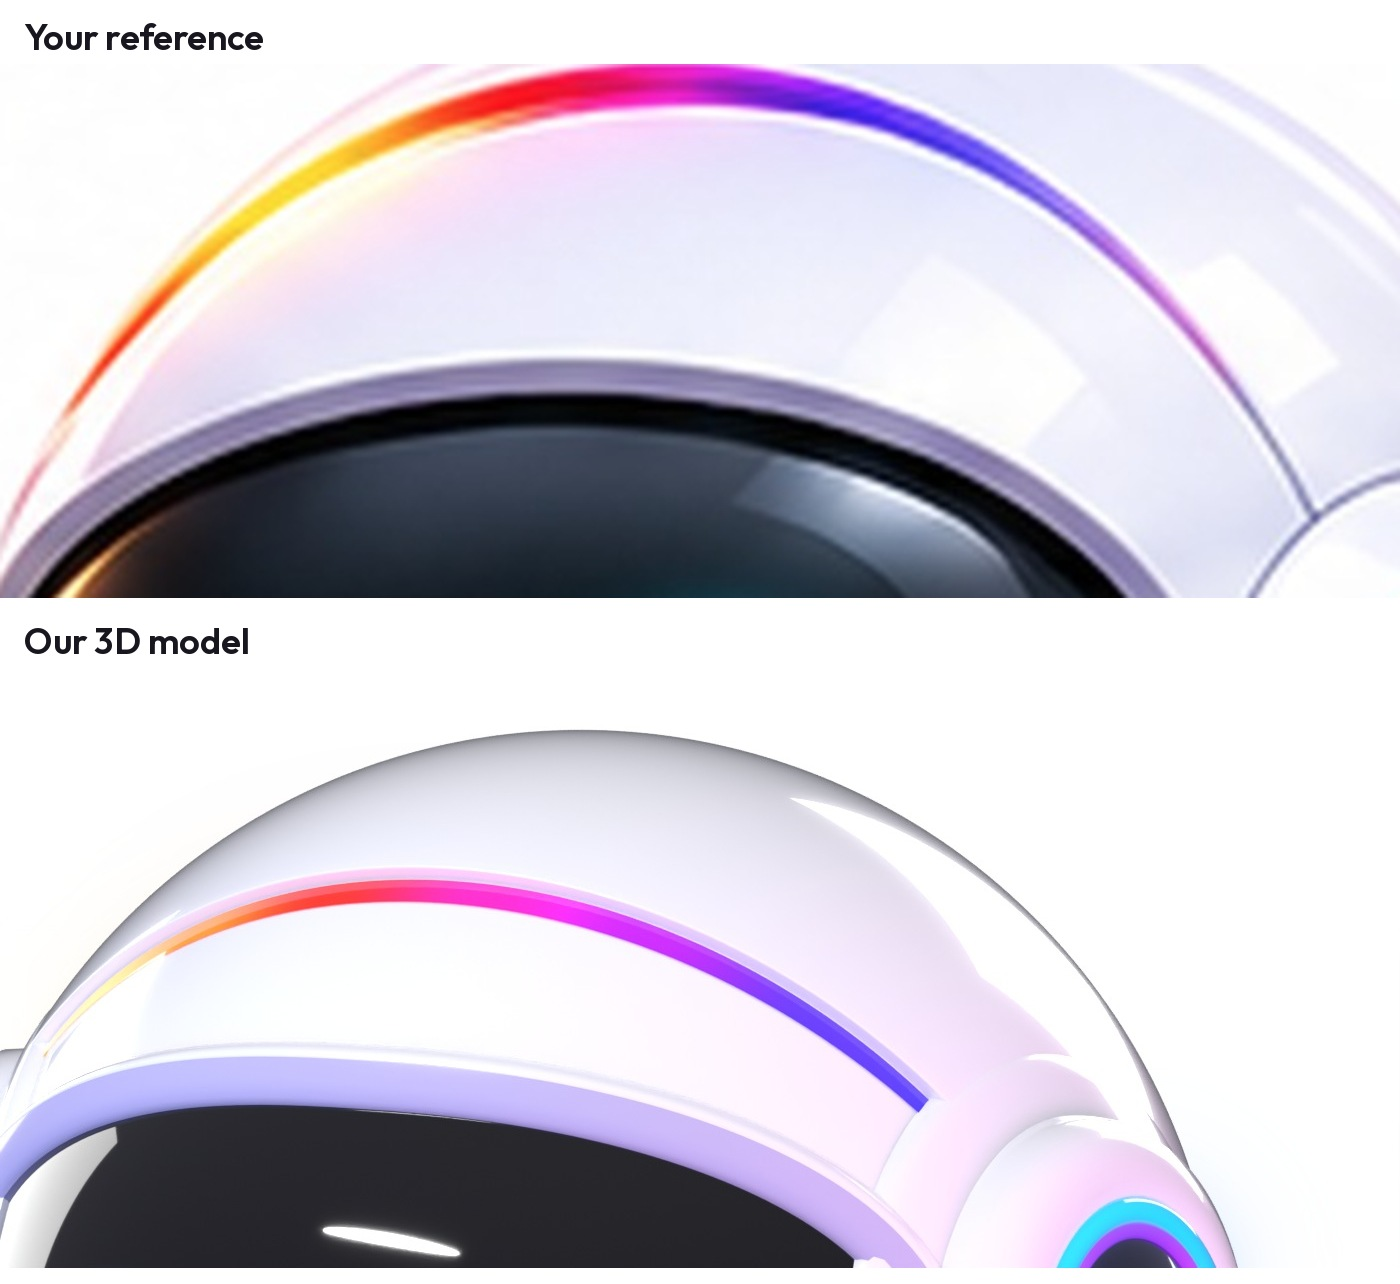
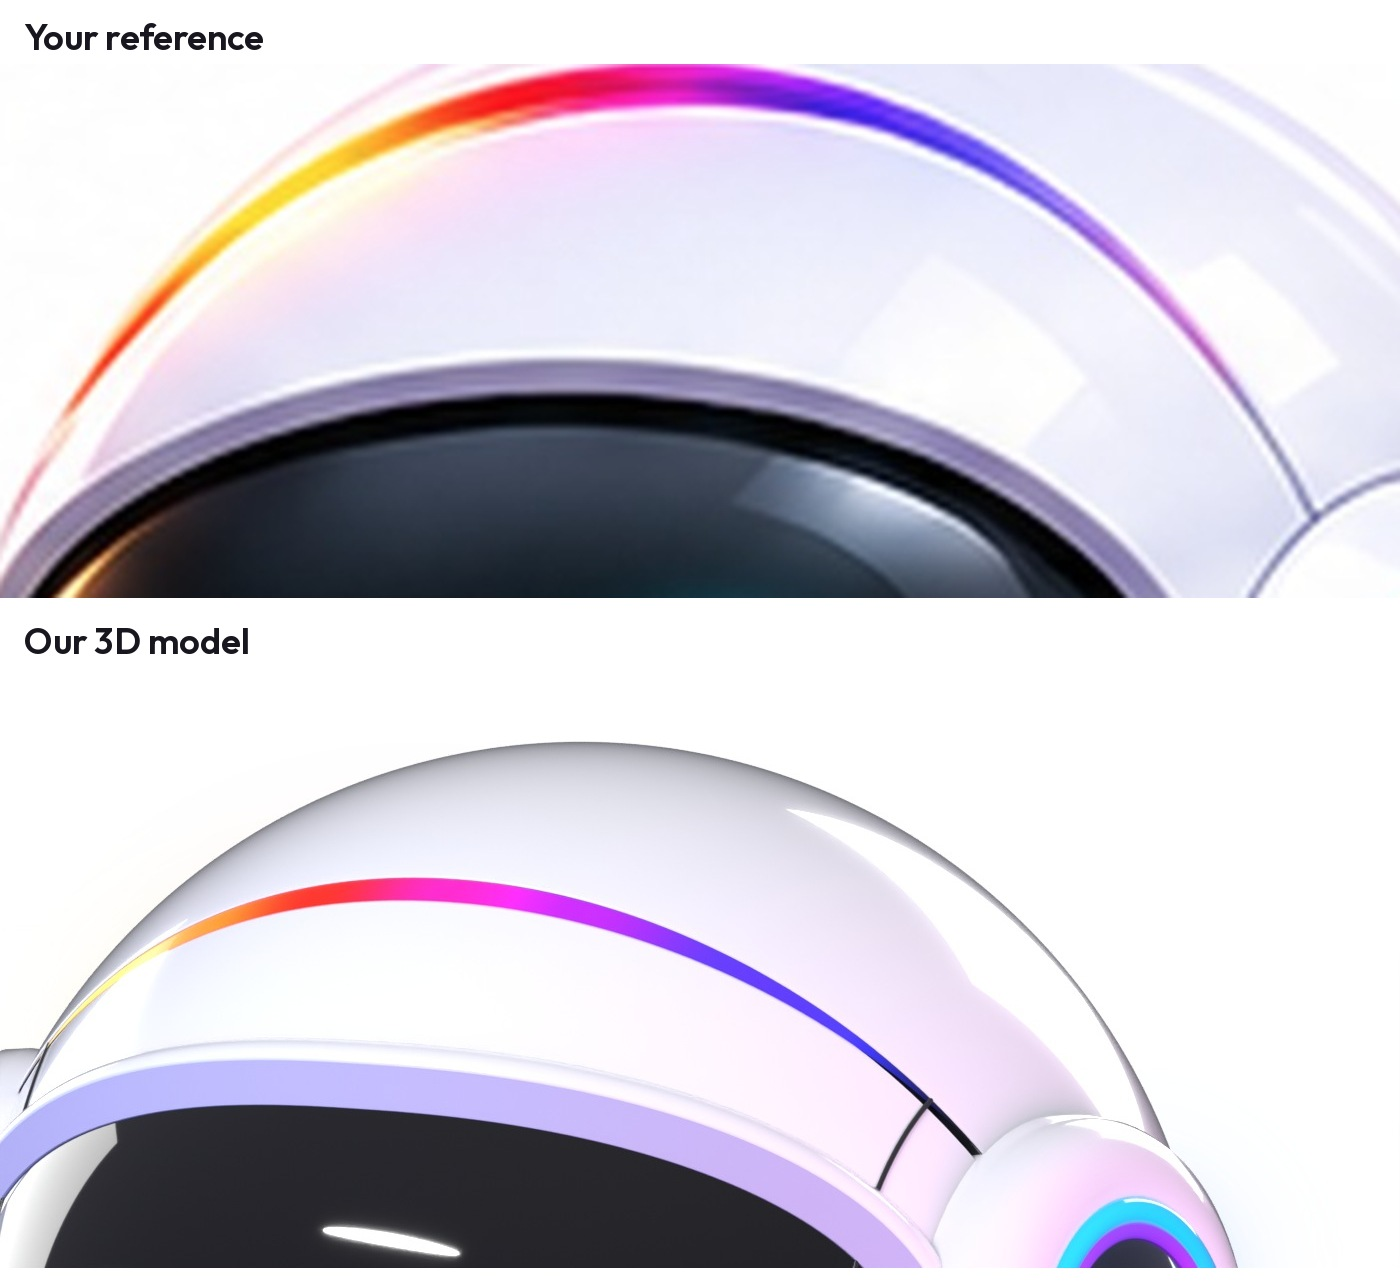
Character version 3: crisp dark seams, flush ear plates, light that ends in the seam, reference-style hands
Hands: a puffy palm, three fat rounded fingers, a fat thumb, a full-width
wrist, a wider black band, a cyan ring and a big puffy cuff, palms up.

Claude-Session: https://claude.ai/code/session_011BdSE2fEeiEv9ZgoYmWAPn

diff --git a/design/hero/character/v3/build.py b/design/hero/character/v3/build.py
@@ -132,13 +132,13 @@ def tube(name, pts, radius, mat, n=16, color=None, caps=True, parent=None):
         for k in range(n): p, q = i * n + k, i * n + (k + 1) % n; faces.append((p, q, q + n, p + n))
     return mesh_object(name, verts, faces, mat, colors=cols or None, parent=parent)
 
-def superellipsoid(name, a, b, c, e1, e2, mat, nu=56, nv=36, center=(0, 0, 0), parent=None):
+def superellipsoid(name, a, b, c, e1, e2, mat, nu=56, nv=36, center=(0, 0, 0), parent=None, taper=0.0):
     def C(w, m): return math.copysign(abs(math.cos(w)) ** m, math.cos(w))
     def S(w, m): return math.copysign(abs(math.sin(w)) ** m, math.sin(w))
     c0 = Vector(center); verts, faces = [], []
     for i in range(1, nv):
         v = -math.pi / 2 + math.pi * i / nv
-        for j in range(nu): u = -math.pi + 2 * math.pi * j / nu; verts.append(c0 + Vector((a * C(v, e1) * C(u, e2), b * C(v, e1) * S(u, e2), c * S(v, e1))))
+        for j in range(nu): u = -math.pi + 2 * math.pi * j / nu; z_ = c * S(v, e1); verts.append(c0 + Vector((a * (1 + taper * z_ / c) * C(v, e1) * C(u, e2), b * C(v, e1) * S(u, e2), z_)))
     bot = len(verts); verts.append(c0 + Vector((0, 0, -c))); top = len(verts); verts.append(c0 + Vector((0, 0, c)))
     for i in range(nv - 2):
         for j in range(nu): p = i * nu + j; q = i * nu + (j + 1) % nu; faces.append((p, q, q + nu, p + nu))
@@ -187,20 +187,20 @@ def bezel_sweep(name, prof, mat, MB=240):
     for j in range(MB):
         for i in range(L - 1): p = j * L + i; q = ((j + 1) % MB) * L + i; faces.append((p, q, q + 1, p + 1))
     return mesh_object(name, verts, faces, mat, parent=root)
-bezel_sweep('BezelChamfer', [(-0.016, -0.03), (-0.014, 0.004), (-0.008, 0.018), (0.014, 0.03), (0.048, 0.038)], M_rim)          # the lavender band round the glass
-bezel_sweep('Bezel', [(0.048, 0.038), (0.05, 0.04), (0.064, 0.035), (0.08, 0.022), (0.09, 0.006), (0.094, -0.03)], M_body)     # the white face, a crisp edge against the band
+bezel_sweep('BezelWall', [(-0.016, -0.03), (-0.0145, 0.004)], M_rim)
+bezel_sweep('BezelChamfer', [(-0.0145, 0.004), (0.044, 0.034)], M_rim)          # the lavender band round the glass
+bezel_sweep('Bezel', [(0.044, 0.034), (0.0455, 0.0365), (0.049, 0.0375), (0.066, 0.034), (0.084, 0.021), (0.096, 0.005), (0.1, -0.03)], M_body)     # the white face, a crisp edge against the band
 
 # ---------------------------------------------------------------- ears: a raised plate, a cup, a black centre and a light ring
 EAR_LON, EAR_LAT = 76, 6
 for s in (1, -1):
     ax = on_sphere(s * EAR_LON, EAR_LAT); nm = 'L' if s > 0 else 'R'
-    plate = [(0.0, 1.03)] + [(rr, math.sqrt(1 - rr * rr) + 0.03) for rr in (0.2, 0.3, 0.4, 0.46, 0.485)] + [(0.497, math.sqrt(1 - 0.497 ** 2) + 0.026), (0.503, math.sqrt(1 - 0.503 ** 2) + 0.012), (0.505, math.sqrt(1 - 0.505 ** 2) - 0.02)]
-    lathe('EarPlate' + nm, plate, M_body, axis=ax)
+    torus('EarSeam' + nm, 0.5, 0.0045, M_band, axis=ax, center=ax * math.sqrt(1 - 0.5 ** 2), n=200, m=8)   # the ear plate is flush, outlined by a thin dark seam
     lathe('EarCup' + nm, [(0.4, 0.88), (0.4, 0.955), (0.393, 0.995), (0.375, 1.025), (0.345, 1.045), (0.305, 1.056), (0.275, 1.054), (0.258, 1.047), (0.25, 1.038)], M_body, axis=ax)   # a low housing, close on the body
     lathe('EarCentre' + nm, [(0.238, 1.036), (0.2, 1.062), (0.1, 1.086), (0.0, 1.093)], M_black, axis=ax)
     torus('EarRingIn' + nm, 0.226, 0.015, M_earRing, axis=ax, center=ax * 1.05, n=160, m=10, color=lambda t, b, s=s: ramp(EARIN, (t + (0.25 if s > 0 else 0.75)) % 1.0), parent=root)
     torus('EarRing' + nm, 0.255, 0.022, M_earRing, axis=ax, center=ax * 1.048, n=160, m=12, color=lambda t, b, s=s: ramp(EAR, (t + (0.25 if s > 0 else 0.75)) % 1.0))
-    for o in ('EarPlate', 'EarCup', 'EarCentre', 'EarRing'): bpy.data.objects[o + nm].parent = root
+    for o in ('EarSeam', 'EarCup', 'EarCentre', 'EarRing'): bpy.data.objects[o + nm].parent = root
 
 # ---------------------------------------------------------------- the rainbow stripe over the head, ear to ear, and the glowing seam low on the front
 E1 = on_sphere(EAR_LON, EAR_LAT); TOP = on_sphere(0, 58)
@@ -224,7 +224,7 @@ mod = body.modifiers.new('cut', 'BOOLEAN'); mod.operation = 'DIFFERENCE'; mod.ob
 bpy.context.view_layer.objects.active = body; bpy.ops.object.modifier_apply(modifier=mod.name); bpy.data.objects.remove(cutter)
 # the cut that the top light sits in: a thin slot all round where the shell meets the face piece, and the shell behind it
 # stands a little proud, so there is a clear step edge with the light under it (fitted panels, as on the reference)
-hv, hf = [], []; HN = 240; SLOT = 0.0045   # a thin, crisp seam line all round
+hv, hf = [], []; HN = 240; SLOT = 0.008   # a thin, crisp seam line all round
 for i in range(HN):
     a = 2 * math.pi * i / HN; dirv = math.cos(a) * Vector((1, 0, 0)) + math.sin(a) * up_
     for rad, tt in ((rr_ - 0.05, -SLOT), (rr_ - 0.05, SLOT), (rr_ + 0.09, SLOT), (rr_ + 0.09, -SLOT)): hv.append(C_ + dirv * rad + n_ * tt)
@@ -234,24 +234,25 @@ headcut = mesh_object('HeadCut', hv, hf, M_dark)
 mod = body.modifiers.new('headcut', 'BOOLEAN'); mod.operation = 'DIFFERENCE'; mod.object = headcut; mod.solver = 'EXACT'; mod.material_mode = 'TRANSFER'
 bpy.context.view_layer.objects.active = body; bpy.ops.object.modifier_apply(modifier=mod.name); bpy.data.objects.remove(headcut)
 s_top = 1 if n_.z > d_ else -1
-A_ = n_ * s_top; h_e = s_top * d_ + SLOT; RS = 1.024; th_e = math.acos(h_e / RS); rho_e = RS * math.sin(th_e)
+A_ = n_ * s_top; h_e = s_top * d_ + SLOT; RS = 1.005; th_e = math.acos(h_e / RS); rho_e = RS * math.sin(th_e)
 # the shell behind the cut, with a tiny rounded bevel on its edge so the edge catches a thin, sharp highlight, then a straight wall
-RB = 0.0035; thc = th_e - RB / RS; Rc = RS - RB
+RB = 0.0028; thc = th_e - RB / RS; Rc = RS - RB
 def er_(th): return Vector((math.sin(th), math.cos(th)))
 def et_(th): return Vector((math.cos(th), -math.sin(th)))
 prof = [(RS * math.sin(thc * k / 90), RS * math.cos(thc * k / 90)) for k in range(91)]
 for k in range(1, 9):
     ph = math.pi / 2 * k / 8; q = er_(thc) * Rc + RB * (math.cos(ph) * er_(thc) + math.sin(ph) * et_(thc)); prof.append((q.x, q.y))
 qe = Vector(prof[-1]); prof.append(tuple(qe * (0.985 / qe.length)))
-lathe('TopShell', prof, M_body, axis=A_, n=360); bpy.data.objects['TopShell'].parent = root
+lathe('TopShell', prof[:-1], M_body, axis=A_, n=360); bpy.data.objects['TopShell'].parent = root   # white surface and bevel only
+lathe('TopShellWall', [prof[-2], prof[-1]], M_dark, axis=A_, n=360); bpy.data.objects['TopShellWall'].parent = root   # the inside of the seam is dark
 # the top light: a flat band of light with hard edges, from the foot of the shell's edge down onto the face piece; its ends come to points
-def head_band(NA=260, K=7, W0=0.05):
-    verts, faces, cols = [], [], []; a0, a1 = math.radians(160), math.radians(20)
+def head_band(NA=300, K=7, W0=0.05):
+    verts, faces, cols = [], [], []; a0, a1 = math.radians(152), math.radians(34)
     for i in range(NA + 1):
-        t = i / NA; a = a0 + (a1 - a0) * t; dirv = math.cos(a) * Vector((1, 0, 0)) + math.sin(a) * up_; W = W0 * math.sin(math.pi * t) ** 0.55
+        t = i / NA; a = a0 + (a1 - a0) * t; dirv = math.cos(a) * Vector((1, 0, 0)) + math.sin(a) * up_; W = W0 * math.sin(math.pi * t) ** 1.15; fade = min(1.0, t / 0.14, (1 - t) / 0.14) ** 1.5   # long pointed ends that fade into the seam
         for k in range(K):
             u = s_top * SLOT - s_top * W * k / (K - 1)
-            q = n_ * (d_ + u) + dirv * math.sqrt(max(1 - (d_ + u) ** 2, 0.0)); verts.append(q * 1.0025); cols.append(lin(ramp(HEAD, t)))
+            q = n_ * (d_ + u) + dirv * math.sqrt(max(1 - (d_ + u) ** 2, 0.0)); verts.append(q * 1.0018); cols.append(lin(tuple(v * fade for v in ramp(HEAD, t))))
     for i in range(NA):
         for k in range(K - 1): p_ = i * K + k; faces.append((p_, p_ + 1, p_ + K + 1, p_ + K))
     return mesh_object('HeadStripe', verts, faces, M_head, colors=cols, merge=False, parent=root)
@@ -302,7 +303,7 @@ def ring_point(a_deg):
 # ---------------------------------------------------------------- hands: cartoon gloves, built in their own frame (palm at the origin,
 # fingers along +Z, palm facing -Y); th = +1 puts the thumb on +X (the character's right hand), -1 on -X (its left hand)
 POSES = {
-    'open':     dict(f=[(10, 16, 10), (8, 14, 8), (12, 18, 10)], spread=1.9, thumb=((0.78, -0.62, 0.12), (0, 6))),
+    'open':     dict(f=[(16, 22, 12), (14, 22, 12), (22, 30, 18)], spread=1.4, thumb=((0.92, -0.3, 0.25), (8, 12))),
     'palm':     dict(f=[(3, 5, 3)] * 3, spread=1.4, thumb=((0.75, -0.35, 0.55), (0, 6))),
     'point':    dict(f=[(0, 0, 0), (90, 105, 75), (90, 105, 75)], spread=0.4, thumb=((0.3, -0.9, 0.4), (30, 34))),
     'thumbsup': dict(f=[(92, 105, 78)] * 3, spread=0.2, thumb=((1.0, -0.2, 0.35), (0, 0))),
@@ -310,7 +311,7 @@ POSES = {
     'chin':     dict(f=[(22, 20, 10), (86, 100, 72), (88, 102, 74)], spread=0.4, thumb=((0.7, -0.6, 0.45), (8, 8))),
     'pen':      dict(f=[(64, 80, 54), (70, 84, 58), (74, 88, 60)], spread=0.2, thumb=((0.4, -0.85, 0.5), (22, 24))),
 }
-FING = [(0.086, 0.05, (0.07, 0.05, 0.036), 13), (0.0, 0.052, (0.076, 0.054, 0.04), 0), (-0.086, 0.049, (0.066, 0.048, 0.035), -13)]   # three fat fingers and a thumb, as on the reference
+FING = [(0.1, 0.052, (0.072, 0.056, 0.042), 14), (0.0, 0.054, (0.078, 0.06, 0.045), 0), (-0.1, 0.051, (0.068, 0.052, 0.04), -14)]   # three fat, rounded fingers, a little apart, and a thumb
 HANDS = {}
 def frame_from(F, N):
     Z = Vector(F).normalized(); Nn = Vector(N); Y = -(Nn - Z * Nn.dot(Z)).normalized(); X = Y.cross(Z)
@@ -328,18 +329,18 @@ def finger_path(base, d0, axis, lengths, curls, steps=10):
 def hand(name, pose, th, pos, F, N, scale=1.0):
     P = POSES[pose]; e = bpy.data.objects.new(name, None); col.objects.link(e); e.parent = root
     e.matrix_basis = Matrix.Translation(pos) @ frame_from(F, N).to_4x4() @ Matrix.Scale(scale, 4)
-    parts = [superellipsoid(name + 'Palm', 0.148, 0.088, 0.108, 0.9, 0.9, M_glove, parent=e)]
+    parts = [superellipsoid(name + 'Palm', 0.13, 0.1, 0.11, 1.0, 1.0, M_glove, parent=e, taper=0.22)]   # a soft, puffy palm
     for k, (x, r, lens, spr) in enumerate(FING):
         sp = math.radians(spr * P['spread'] * (1 if th > 0 else -1)); d0 = Vector((math.sin(sp), 0, math.cos(sp)))
-        axis = d0.cross(Vector((0, -1, 0))).normalized(); base = Vector((th * x, -0.004, 0.045))
+        axis = d0.cross(Vector((0, -1, 0))).normalized(); base = Vector((th * x, -0.006, 0.072))
         parts.append(tube(name + 'F%d' % k, finger_path(base, d0, axis, lens, P['f'][min(k, len(P['f']) - 1)]), lambda t, r=r: r * (1 - 0.08 * t), M_glove, n=18, parent=e))
-    (tx, ty, tz), tc = P['thumb']; d0 = Vector((th * tx, ty, tz)).normalized(); base = Vector((th * 0.085, -0.022, -0.028))
+    (tx, ty, tz), tc = P['thumb']; d0 = Vector((th * tx, ty, tz)).normalized(); base = Vector((th * 0.105, -0.015, -0.03))
     axis = d0.cross(Vector((-th * 0.35, -1, 0.1))).normalized()
-    parts.append(tube(name + 'Thumb', finger_path(base, d0, axis, (0.06, 0.045), tc), lambda t: 0.056 * (1 - 0.06 * t), M_glove, n=18, parent=e))
-    parts.append(lathe(name + 'Wrist', [(0.06, -0.04), (0.064, -0.1), (0.064, -0.13)], M_glove, parent=e, n=48))
-    parts.append(lathe(name + 'Cuff', [(0.0, -0.132), (0.07, -0.132), (0.092, -0.138), (0.104, -0.155), (0.107, -0.178), (0.1, -0.2), (0.084, -0.214), (0.0, -0.217)], M_glove, parent=e, n=48))   # the puffy white collar
-    parts.append(lathe(name + 'Band', [(0.068, -0.095), (0.07, -0.1), (0.07, -0.132)], M_band, parent=e, n=48))
-    parts.append(torus(name + 'CuffLight', 0.078, 0.011, M_cyan, center=(0, 0, -0.128), n=64, m=10, parent=e))
+    parts.append(tube(name + 'Thumb', finger_path(base, d0, axis, (0.07, 0.055), tc), lambda t: 0.06 * (1 - 0.06 * t), M_glove, n=18, parent=e))
+    parts.append(lathe(name + 'Wrist', [(0.0, -0.02), (0.1, -0.02), (0.1, -0.06), (0.097, -0.085), (0.095, -0.092)], M_glove, parent=e, n=64))   # short and full width
+    parts.append(lathe(name + 'Band', [(0.094, -0.088), (0.1, -0.093), (0.1, -0.137), (0.094, -0.141)], M_band, parent=e, n=64))   # the black band
+    parts.append(torus(name + 'CuffLight', 0.1, 0.01, M_cyan, center=(0, 0, -0.141), n=72, m=10, parent=e))
+    parts.append(lathe(name + 'Cuff', [(0.0, -0.142), (0.1, -0.142), (0.122, -0.148), (0.138, -0.165), (0.142, -0.19), (0.136, -0.214), (0.118, -0.228), (0.095, -0.233), (0.0, -0.234)], M_glove, parent=e, n=64))   # a big, puffy cuff
     HANDS[name] = [e] + parts
     return e
 
@@ -347,10 +348,10 @@ def show_hands(names):
     for k, objs in HANDS.items():
         for o in objs: o.hide_render = k not in names
 
-def side_hand(name, s, cuff=(0.98, -0.52, -0.56), pose='open', F=None, N=None, scale=1.45):
+def side_hand(name, s, cuff=(1.0, -0.5, -0.55), pose='open', F=None, N=None, scale=1.08):
     """A hand at the character's side (s = -1 its right, +1 its left), given by where its cuff ends."""
-    F = Vector(F or (s * 0.98, -0.16, 0.1)).normalized(); N = N or (0, -0.72, 0.69)
-    return hand(name, pose, -s, Vector((s * cuff[0], cuff[1], cuff[2])) + F * 0.205 * scale, F, N, scale)
+    F = Vector(F or (s * 0.96, -0.2, 0.18)).normalized(); N = N or ((0.15, -0.68, 0.72) if s > 0 else (0.55, -0.82, 0.18))   # palm up, tilted to the viewer, fingers outward   # palms up and toward the viewer
+    return hand(name, pose, -s, Vector((s * cuff[0], cuff[1], cuff[2])) + F * 0.234 * scale, F, N, scale)
 
 side_hand('TurnR', -1); side_hand('TurnL', 1)
 

diff --git a/design/hero/character/v3/final.py b/design/hero/character/v3/final.py
@@ -40,7 +40,7 @@ def neon(name, strength, white=0.12):
     b.inputs['Roughness'].default_value = 0.1; b.inputs['Coat Weight'].default_value = 1.0; b.inputs['Coat Roughness'].default_value = 0.0
 bpy.data.materials['visor'].node_tree.nodes['Principled BSDF'].inputs['Emission Strength'].default_value = 1.6
 neon('lowSeam', 2.6)
-setp('headStripe', Roughness=0.12, Coat_Weight=1.0, Coat_Roughness=0.0, Emission_Strength=1.9)   # an even band of light, hard-edged
+setp('headStripe', Roughness=0.3, Coat_Weight=0.25, Coat_Roughness=0.05, Emission_Strength=1.9)   # an even band of light, hard-edged
 for nm in ('rim',): setp(nm, Roughness=0.16, Coat_Weight=1.0, Coat_Roughness=0.01)
 neon('earRing', 1.3, white=0.0)
 rb = bsdf('ring'); rb.inputs['Emission Strength'].default_value = 0.85; rb.inputs['Roughness'].default_value = 0.1; rb.inputs['Coat Weight'].default_value = 1.0; rb.inputs['Coat Roughness'].default_value = 0.0
@@ -101,6 +101,8 @@ if 'preview' in SHOTS:
     G['turn'](-22); frame(); shot('final-preview', 480, 48)
 if 'top' in SHOTS:                                               # a close look at the top of the head, at full size
     G['turn'](-22); frame(target=(0.19, 0, 0.65), lens=175); shot('final-top', 600, 160, w=1400, floor=False)
+if 'hands' in SHOTS:                                             # both hands, close
+    G['turn'](-22); frame(target=(0.0, 0, -0.52), lens=96); shot('final-hands', 700, 90, w=1800, floor=False)
 if 'hero' in SHOTS:
     G['turn'](-22); frame(); shot('final-hero', 1200, 110)
 if 'views' in SHOTS:

diff --git a/design/hero/character/v3/comp.py b/design/hero/character/v3/comp.py
@@ -10,7 +10,7 @@ def composite(beauty, glow, out, floor=None, bloom=1.0, shadow=1.0):
     res = b.shape[0]; k = res / 640
     bp = b[..., :3] * b[..., 3:]; gp = np.clip(g[..., :3] * g[..., 3:], 0, 1)
     gi = Image.fromarray((gp * 255).astype(np.uint8))
-    amt = bloom; bloom = sum(np.asarray(gi.filter(ImageFilter.GaussianBlur(r * k))).astype(np.float32) / 255 * wt * amt for r, wt in ((6, 0.35), (16, 0.45), (38, 0.4), (80, 0.25)))
+    amt = bloom; bloom = sum(np.asarray(gi.filter(ImageFilter.GaussianBlur(r * k))).astype(np.float32) / 255 * wt * amt for r, wt in ((6, 0.08), (16, 0.24), (38, 0.36), (80, 0.25)))   # little blur close in, so edges stay crisp
     if floor:                                                    # a soft coloured glow on the floor under the character
         cx, cy, hw, hh = floor; yy, xx = np.mgrid[0:res, 0:res].astype(np.float32)
         fall = np.exp(-(((xx - cx) / hw) ** 2 + ((yy - cy) / hh) ** 2) * 1.6)[..., None]
